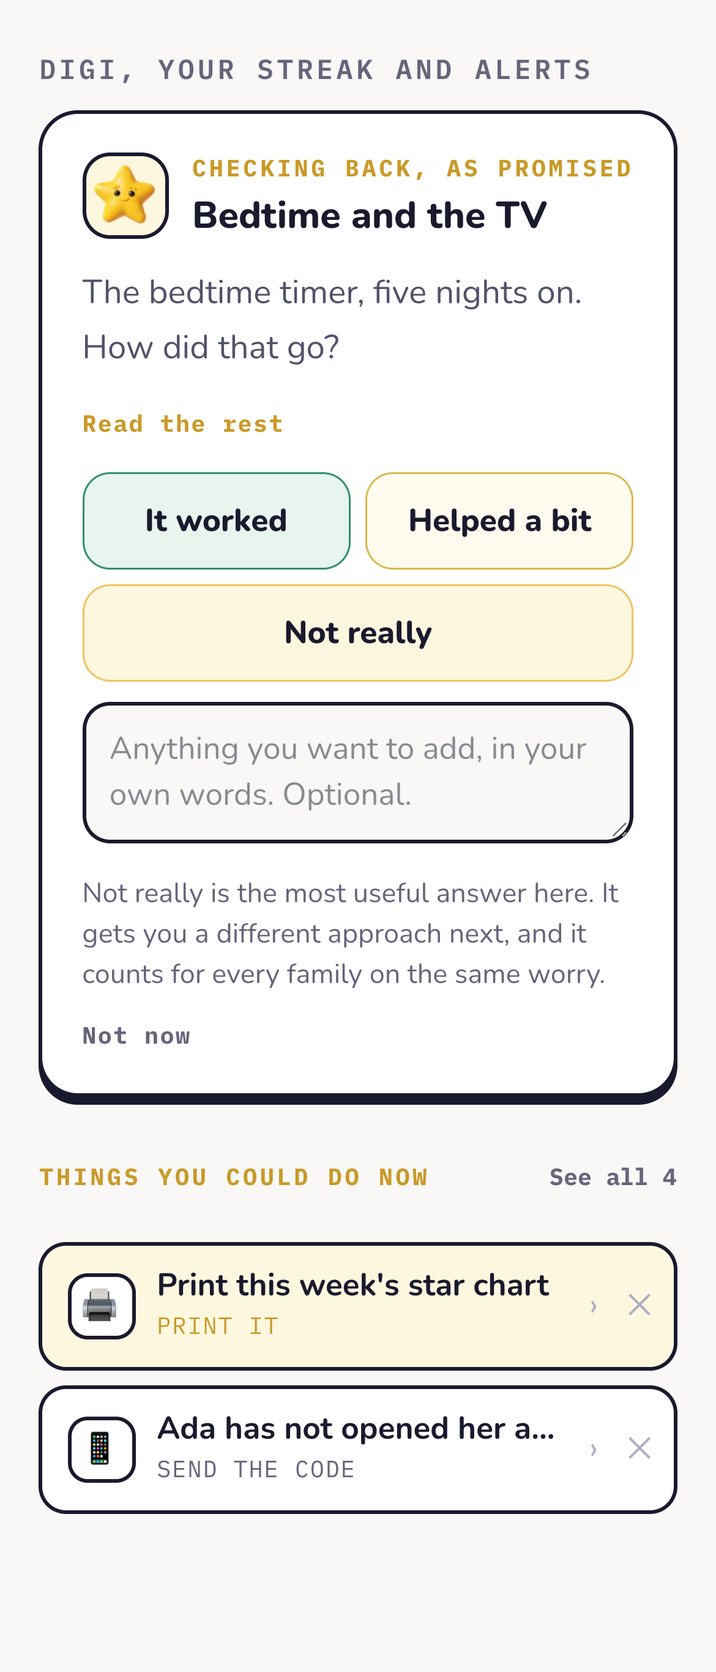
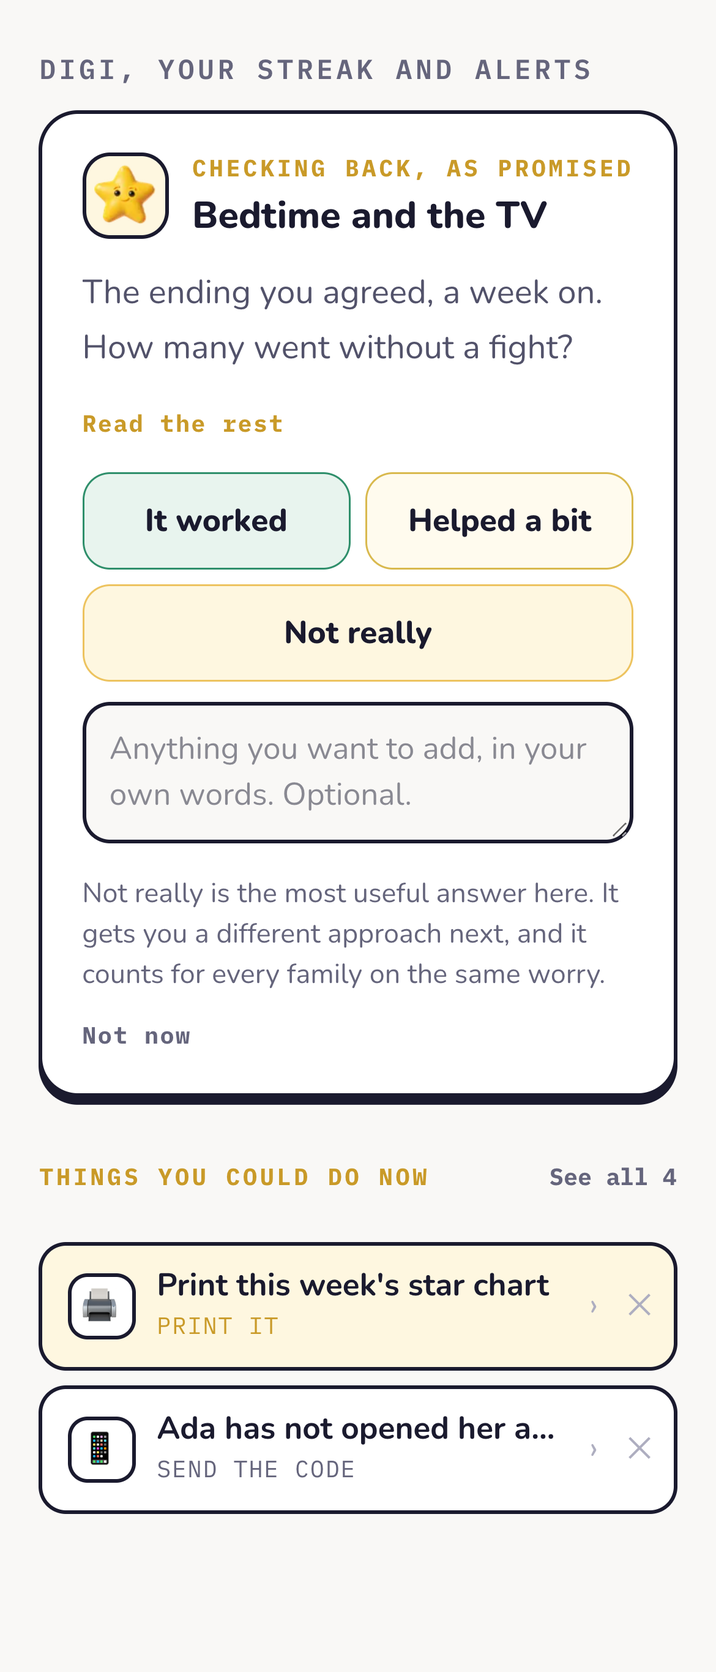
Ready: she starts at nine, DiGi's plan is its live script 9671, no backing track
Episode one and the hero open on the nine year old (new reference, Higgsfield
job 06f19bf3). DiGi's bedtime plan follows script 9671 as corrected by
migration 371: agree the ending in a calm moment, say only that was the
deal, no warnings. The hero's group chat answer follows WB-03. The guide
score is out; Justin adds the music. Ages are labelled only where the
footage reads that age.

Changed region(s): [[0.2462, 0.1557, 0.8308, 0.2179], [0.2154, 0.1557, 0.2462, 0.1868]]

diff --git a/videos/2026-10-12-ready-ep1-bedtime/index.html b/videos/2026-10-12-ready-ep1-bedtime/index.html
@@ -46,18 +46,18 @@ html,body{width:1920px;height:1080px;overflow:hidden;background:#000}
 .end .cta{margin-top:50px;font-weight:700;font-size:44px;line-height:1.3;color:#1A1A2E;opacity:0}
 .end .url{margin-top:26px;font-family:plexMono,monospace;font-weight:600;font-size:26px;letter-spacing:0.08em;color:#C99A28;opacity:0}
 </style></head>
-<body><div id="root" data-composition-id="main" data-start="0" data-duration="88.80" data-width="1920" data-height="1080">
+<body><div id="root" data-composition-id="main" data-start="0" data-duration="90.70" data-width="1920" data-height="1080">
 <div id="b0" class="beat hook"><video id="v0" class="" src="assets/e1-tv.mp4" muted playsinline data-start="0.00" data-duration="7.00" data-media-start="0.00" data-track-index="1" style="transform-origin:50% 45%"></video><div class="scrim deep"></div><div class="strip" id="b0-s"><div class="steps"><span class="st on"><i>1</i>The worry</span><span class="st"><i>2</i>DiGi's plan</span><span class="st"><i>3</i>How it works</span><span class="st"><i>4</i>Sorted</span></div><div class="stamp">Night 1, 9:00pm</div></div><div class="quote" id="b0-q"><div class="qm">“</div><div class="qt">Every night the TV goes back on. Every night we fight.</div></div></div>
 <div id="b1" class="beat shot"><video id="v1" class="" src="assets/e1-tv.mp4" muted playsinline data-start="6.40" data-duration="6.10" data-media-start="3.00" data-track-index="0" style="transform-origin:50% 45%"></video><div class="scrim"></div><div class="strip" id="b1-s"><div class="steps"><span class="st on"><i>1</i>The worry</span><span class="st"><i>2</i>DiGi's plan</span><span class="st"><i>3</i>How it works</span><span class="st"><i>4</i>Sorted</span></div><div class="stamp">Night 1, 9:00pm</div></div><div class="caption" id="b1-c">Bedtime. The TV goes back on. Again.</div></div>
 <div id="b2" class="beat chat"><div class="ground"></div><div class="strip" id="b2-s"><div class="steps"><span class="st done"><i>✓</i>The worry</span><span class="st on"><i>2</i>DiGi's plan</span><span class="st"><i>3</i>How it works</span><span class="st"><i>4</i>Sorted</span></div><div class="stamp">Night 1, 9:14pm</div></div><div class="chatbox" id="b2-p"><div class="ph-head"><img src="assets/digi-cut.png" alt=""><span>DiGi</span></div><div class="me" id="b2-me">She keeps putting the TV back on at bedtime. Every night ends in a fight. What do I do?</div><div class="dots" id="b2-dots"><i></i><i></i><i></i></div></div></div>
-<div id="b3" class="beat chat"><div class="ground"></div><div class="strip" id="b3-s"><div class="steps"><span class="st done"><i>✓</i>The worry</span><span class="st on"><i>2</i>DiGi's plan</span><span class="st"><i>3</i>How it works</span><span class="st"><i>4</i>Sorted</span></div><div class="stamp">Night 1, 9:15pm</div></div><div class="chatbox" id="b3-p"><div class="ph-head"><img src="assets/digi-cut.png" alt=""><span>DiGi</span></div><div class="dg step" id="b3-d0"><b class="num">1</b><span><b>Tonight.</b> Tell her once. Ten minutes on the timer, then the TV goes off.</span></div><div class="dg step" id="b3-d1"><b class="num">2</b><span><b>Then.</b> A calm switch off earns ten minutes together, and she chooses what.</span></div><div class="dg step" id="b3-d2"><b class="num">3</b><span><b>Every night.</b> The same ending, no extra minutes. One extension resets it.</span></div></div></div>
-<div id="b4" class="beat shot"><video id="v2" class="" src="assets/e1-timer.mp4" muted playsinline data-start="41.90" data-duration="6.10" data-media-start="0.00" data-track-index="1" style="transform-origin:50% 45%"></video><div class="scrim"></div><div class="strip" id="b4-s"><div class="steps"><span class="st done"><i>✓</i>The worry</span><span class="st done"><i>✓</i>DiGi's plan</span><span class="st on"><i>3</i>How it works</span><span class="st"><i>4</i>Sorted</span></div><div class="stamp">Night 2, 8:50pm</div></div><div class="caption" id="b4-c">Ten minutes on the timer. Said once.</div></div>
-<div id="b5" class="beat shot"><video id="v3" class="" src="assets/e1-together.mp4" muted playsinline data-start="47.40" data-duration="6.10" data-media-start="0.00" data-track-index="0" style="transform-origin:50% 45%"></video><div class="scrim"></div><div class="strip" id="b5-s"><div class="steps"><span class="st done"><i>✓</i>The worry</span><span class="st done"><i>✓</i>DiGi's plan</span><span class="st on"><i>3</i>How it works</span><span class="st"><i>4</i>Sorted</span></div><div class="stamp">Night 2, 9:00pm</div></div><div class="caption" id="b5-c">TV off. Ten minutes together, her choice.</div></div>
+<div id="b3" class="beat chat"><div class="ground"></div><div class="strip" id="b3-s"><div class="steps"><span class="st done"><i>✓</i>The worry</span><span class="st on"><i>2</i>DiGi's plan</span><span class="st"><i>3</i>How it works</span><span class="st"><i>4</i>Sorted</span></div><div class="stamp">Night 1, 9:15pm</div></div><div class="chatbox" id="b3-p"><div class="ph-head"><img src="assets/digi-cut.png" alt=""><span>DiGi</span></div><div class="dg step" id="b3-d0"><b class="num">1</b><span><b>Tonight.</b> Not at the screen. In a calm moment, agree what ends it: episode or timer.</span></div><div class="dg step" id="b3-d1"><b class="num">2</b><span><b>Tomorrow.</b> When it ends, say only “That was the deal. Well done.” Nothing else.</span></div><div class="dg step" id="b3-d2"><b class="num">3</b><span><b>If she pushes.</b> No countdown, no lecture. Point to the deal she chose.</span></div></div></div>
+<div id="b4" class="beat shot"><video id="v2" class="" src="assets/e1-deal.mp4" muted playsinline data-start="43.40" data-duration="6.50" data-media-start="0.00" data-track-index="1" style="transform-origin:50% 45%"></video><div class="scrim"></div><div class="strip" id="b4-s"><div class="steps"><span class="st done"><i>✓</i>The worry</span><span class="st done"><i>✓</i>DiGi's plan</span><span class="st on"><i>3</i>How it works</span><span class="st"><i>4</i>Sorted</span></div><div class="stamp">Day 2, 4:00pm</div></div><div class="caption" id="b4-c">Not at the screen. She picks the ending.</div></div>
+<div id="b5" class="beat shot"><video id="v3" class="" src="assets/e1-ending.mp4" muted playsinline data-start="49.30" data-duration="6.10" data-media-start="0.00" data-track-index="0" style="transform-origin:50% 45%"></video><div class="scrim"></div><div class="strip" id="b5-s"><div class="steps"><span class="st done"><i>✓</i>The worry</span><span class="st done"><i>✓</i>DiGi's plan</span><span class="st on"><i>3</i>How it works</span><span class="st"><i>4</i>Sorted</span></div><div class="stamp">Night 2, 8:30pm</div></div><div class="caption" id="b5-c">The timer goes. That was the deal.</div></div>
 <div id="b6" class="beat screen"><div class="ground"></div><div class="strip" id="b6-s"><div class="steps"><span class="st done"><i>✓</i>The worry</span><span class="st done"><i>✓</i>DiGi's plan</span><span class="st on"><i>3</i>How it works</span><span class="st"><i>4</i>Sorted</span></div><div class="stamp">Day 3, 5:00pm</div></div><div class="phone" id="b6-p" style="width:560px;margin-left:-280px"><div class="crop" style="aspect-ratio:1170/1485"><img src="assets/child-deal.png" style="top:0.000%" alt=""></div></div><div class="caption" id="b6-c">Her deal, in her own app.</div></div>
 <div id="b7" class="beat screen"><div class="ground"></div><div class="strip" id="b7-s"><div class="steps"><span class="st done"><i>✓</i>The worry</span><span class="st done"><i>✓</i>DiGi's plan</span><span class="st on"><i>3</i>How it works</span><span class="st"><i>4</i>Sorted</span></div><div class="stamp">Day 3, 6:00pm</div></div><div class="phone" id="b7-p" style="width:560px;margin-left:-280px"><div class="crop" style="aspect-ratio:1170/1300"><img src="assets/kid-ask.png" style="top:0.000%" alt=""></div></div><div class="caption" id="b7-c">She picks the screen. Her timer ends it.</div></div>
-<div id="b8" class="beat screen"><div class="ground"></div><div class="strip" id="b8-s"><div class="steps"><span class="st done"><i>✓</i>The worry</span><span class="st done"><i>✓</i>DiGi's plan</span><span class="st on"><i>3</i>How it works</span><span class="st"><i>4</i>Sorted</span></div><div class="stamp">Night 5</div></div><div class="phone" id="b8-p" style="width:521px;margin-left:-260.5px"><div class="crop" style="aspect-ratio:1170/1600"><img src="assets/digi-followup.png" style="top:-10.625%" alt=""></div></div><div class="caption" id="b8-c">Five nights on, DiGi checks back.</div></div>
-<div id="b9" class="beat shot"><video id="v4" class="" src="assets/e1-off.mp4" muted playsinline data-start="72.00" data-duration="6.50" data-media-start="0.00" data-track-index="1" style="transform-origin:50% 45%"></video><div class="scrim"></div><div class="strip" id="b9-s"><div class="steps"><span class="st done"><i>✓</i>The worry</span><span class="st done"><i>✓</i>DiGi's plan</span><span class="st done"><i>✓</i>How it works</span><span class="st on"><i>4</i>Sorted</span></div><div class="stamp">Week 2, 9:00pm</div></div><div class="caption" id="b9-c">The timer goes. She switches it off herself.</div></div>
-<div id="b10" class="beat shot"><video id="v5" class="" src="assets/s13.mp4" muted playsinline data-start="77.90" data-duration="6.50" data-media-start="1.00" data-track-index="0" style="transform-origin:50% 50%"></video><div class="scrim"></div><div class="strip" id="b10-s"><div class="steps"><span class="st done"><i>✓</i>The worry</span><span class="st done"><i>✓</i>DiGi's plan</span><span class="st done"><i>✓</i>How it works</span><span class="st on"><i>4</i>Sorted</span></div><div class="stamp">Seven years on</div></div><div class="caption" id="b10-c">Her phone sleeps in the kitchen. Her choice.</div></div>
+<div id="b8" class="beat screen"><div class="ground"></div><div class="strip" id="b8-s"><div class="steps"><span class="st done"><i>✓</i>The worry</span><span class="st done"><i>✓</i>DiGi's plan</span><span class="st on"><i>3</i>How it works</span><span class="st"><i>4</i>Sorted</span></div><div class="stamp">Week 1</div></div><div class="phone" id="b8-p" style="width:521px;margin-left:-260.5px"><div class="crop" style="aspect-ratio:1170/1600"><img src="assets/digi-followup.png" style="top:-10.625%" alt=""></div></div><div class="caption" id="b8-c">A week on, DiGi checks back.</div></div>
+<div id="b9" class="beat shot"><video id="v4" class="" src="assets/e1-off.mp4" muted playsinline data-start="73.90" data-duration="6.50" data-media-start="0.00" data-track-index="1" style="transform-origin:50% 45%"></video><div class="scrim"></div><div class="strip" id="b9-s"><div class="steps"><span class="st done"><i>✓</i>The worry</span><span class="st done"><i>✓</i>DiGi's plan</span><span class="st done"><i>✓</i>How it works</span><span class="st on"><i>4</i>Sorted</span></div><div class="stamp">Week 2, 9:00pm</div></div><div class="caption" id="b9-c">The timer goes. She switches it off herself.</div></div>
+<div id="b10" class="beat shot"><video id="v5" class="" src="assets/s13.mp4" muted playsinline data-start="79.80" data-duration="6.50" data-media-start="1.00" data-track-index="0" style="transform-origin:50% 50%"></video><div class="scrim"></div><div class="strip" id="b10-s"><div class="steps"><span class="st done"><i>✓</i>The worry</span><span class="st done"><i>✓</i>DiGi's plan</span><span class="st done"><i>✓</i>How it works</span><span class="st on"><i>4</i>Sorted</span></div><div class="stamp">Seven years on</div></div><div class="caption" id="b10-c">Her phone sleeps in the kitchen. Her choice.</div></div>
 <div id="b11" class="beat end"><div class="lockup" id="b11-l"><svg width="132" height="132" viewBox="0 0 132 132"><rect width="132" height="132" rx="31.68" fill="#EDC35F"/><rect x="22.4" y="79.9" width="15.8" height="23.1" rx="7.9" fill="#FFFFFF"/><rect x="46.2" y="61.4" width="15.8" height="41.6" rx="7.9" fill="#FFFFFF"/><rect x="70.0" y="38.3" width="15.8" height="64.7" rx="7.9" fill="#FFFFFF"/><rect x="93.7" y="66.0" width="15.8" height="37.0" rx="7.9" fill="#FFFFFF"/></svg><span class="word">Guided Childhood</span></div>
       <div class="cta" id="b11-c">What stage is your child?<br>Three questions, no sign up.</div><div class="url" id="b11-u">guidedchildhood.com/starter-pack</div></div>
 <div class="vignette" id="vig"></div></div>
@@ -85,56 +85,56 @@ tl.fromTo("#b2-dots",{opacity:0},{opacity:1,duration:0.2},20.51);
 tl.fromTo("#b2-dots i",{y:0},{y:-6,duration:0.25,yoyo:true,repeat:5,stagger:0.12,ease:"sine.inOut"},20.51);
 tl.to("#b2-dots",{opacity:0,height:0,margin:0,padding:0,duration:0.2},21.91);
 tl.fromTo("#b3",{opacity:0},{opacity:1,duration:0.6,ease:"sine.inOut"},23.40);
-tl.to("#b3",{opacity:0,duration:0.01},42.50);
+tl.to("#b3",{opacity:0,duration:0.01},44.00);
 tl.fromTo("#b3-s .stamp",{opacity:0,x:-12},{opacity:1,x:0,duration:0.6,ease:"expo.out"},23.60);
 tl.fromTo("#b3-p",{opacity:0,y:30,scale:0.97},{opacity:1,y:0,scale:1,duration:0.7,ease:"expo.out"},23.80);
 tl.fromTo("#b3-d0",{opacity:0,y:12},{opacity:1,y:0,duration:0.55,ease:"power2.out"},24.60);
-tl.fromTo("#b3-d1",{opacity:0,y:12},{opacity:1,y:0,duration:0.55,ease:"power2.out"},30.48);
-tl.fromTo("#b3-d2",{opacity:0,y:12},{opacity:1,y:0,duration:0.55,ease:"power2.out"},35.98);
-tl.fromTo("#b4",{opacity:0},{opacity:1,duration:0.6,ease:"sine.inOut"},41.90);
-tl.to("#b4",{opacity:0,duration:0.01},48.00);
-tl.fromTo("#b4 video",{scale:1},{scale:1.06,duration:6.10,ease:"none"},41.90);
-tl.fromTo("#b4-s .stamp",{opacity:0,x:-12},{opacity:1,x:0,duration:0.6,ease:"expo.out"},42.10);
-tl.fromTo("#b4-s .st.on",{scale:0.85},{scale:1,duration:0.5,ease:"back.out(2)"},42.20);
-tl.fromTo("#b4-c",{opacity:0,y:14,filter:"blur(8px)"},{opacity:1,y:0,filter:"blur(0px)",duration:0.8,ease:"expo.out"},42.90);
-tl.fromTo("#b5",{opacity:0},{opacity:1,duration:0.6,ease:"sine.inOut"},47.40);
-tl.to("#b5",{opacity:0,duration:0.01},53.50);
-tl.fromTo("#b5 video",{scale:1},{scale:1.06,duration:6.10,ease:"none"},47.40);
-tl.fromTo("#b5-s .stamp",{opacity:0,x:-12},{opacity:1,x:0,duration:0.6,ease:"expo.out"},47.60);
-tl.fromTo("#b5-c",{opacity:0,y:14,filter:"blur(8px)"},{opacity:1,y:0,filter:"blur(0px)",duration:0.8,ease:"expo.out"},48.40);
-tl.fromTo("#b6",{opacity:0},{opacity:1,duration:0.6,ease:"sine.inOut"},52.90);
-tl.to("#b6",{opacity:0,duration:0.01},59.60);
-tl.fromTo("#b6-s .stamp",{opacity:0,x:-12},{opacity:1,x:0,duration:0.6,ease:"expo.out"},53.10);
-tl.fromTo("#b6-p",{opacity:0,y:50,scale:0.95},{opacity:1,y:0,scale:1,duration:0.9,ease:"expo.out"},53.20);
-tl.to("#b6-p",{y:-8,duration:5.30,ease:"sine.inOut"},54.10);
-tl.fromTo("#b6-c",{opacity:0,y:14,filter:"blur(8px)"},{opacity:1,y:0,filter:"blur(0px)",duration:0.8,ease:"expo.out"},54.30);
-tl.fromTo("#b7",{opacity:0},{opacity:1,duration:0.6,ease:"sine.inOut"},59.00);
-tl.to("#b7",{opacity:0,duration:0.01},66.50);
-tl.fromTo("#b7-s .stamp",{opacity:0,x:-12},{opacity:1,x:0,duration:0.6,ease:"expo.out"},59.20);
-tl.fromTo("#b7-p",{opacity:0,y:50,scale:0.95},{opacity:1,y:0,scale:1,duration:0.9,ease:"expo.out"},59.30);
-tl.to("#b7-p",{y:-8,duration:6.10,ease:"sine.inOut"},60.20);
-tl.fromTo("#b7-c",{opacity:0,y:14,filter:"blur(8px)"},{opacity:1,y:0,filter:"blur(0px)",duration:0.8,ease:"expo.out"},60.40);
-tl.fromTo("#b8",{opacity:0},{opacity:1,duration:0.6,ease:"sine.inOut"},65.90);
-tl.to("#b8",{opacity:0,duration:0.01},72.60);
-tl.fromTo("#b8-s .stamp",{opacity:0,x:-12},{opacity:1,x:0,duration:0.6,ease:"expo.out"},66.10);
-tl.fromTo("#b8-p",{opacity:0,y:50,scale:0.95},{opacity:1,y:0,scale:1,duration:0.9,ease:"expo.out"},66.20);
-tl.to("#b8-p",{y:-8,duration:5.30,ease:"sine.inOut"},67.10);
-tl.fromTo("#b8-c",{opacity:0,y:14,filter:"blur(8px)"},{opacity:1,y:0,filter:"blur(0px)",duration:0.8,ease:"expo.out"},67.30);
-tl.fromTo("#b9",{opacity:0},{opacity:1,duration:0.6,ease:"sine.inOut"},72.00);
-tl.to("#b9",{opacity:0,duration:0.01},78.50);
-tl.fromTo("#b9 video",{scale:1},{scale:1.06,duration:6.50,ease:"none"},72.00);
-tl.fromTo("#b9-s .stamp",{opacity:0,x:-12},{opacity:1,x:0,duration:0.6,ease:"expo.out"},72.20);
-tl.fromTo("#b9-s .st.on",{scale:0.85},{scale:1,duration:0.5,ease:"back.out(2)"},72.30);
-tl.fromTo("#b9-c",{opacity:0,y:14,filter:"blur(8px)"},{opacity:1,y:0,filter:"blur(0px)",duration:0.8,ease:"expo.out"},73.00);
-tl.fromTo("#b10",{opacity:0},{opacity:1,duration:0.6,ease:"sine.inOut"},77.90);
-tl.to("#b10",{opacity:0,duration:0.01},84.40);
-tl.fromTo("#b10 video",{scale:1},{scale:1.06,duration:6.50,ease:"none"},77.90);
-tl.fromTo("#b10-s .stamp",{opacity:0,x:-12},{opacity:1,x:0,duration:0.6,ease:"expo.out"},78.10);
-tl.fromTo("#b10-c",{opacity:0,y:14,filter:"blur(8px)"},{opacity:1,y:0,filter:"blur(0px)",duration:0.8,ease:"expo.out"},78.90);
-tl.fromTo("#b11",{opacity:0},{opacity:1,duration:0.6,ease:"sine.inOut"},83.80);
-tl.fromTo("#b11-l",{opacity:0,y:18,scale:0.96},{opacity:1,y:0,scale:1,duration:1.0,ease:"expo.out"},84.10);
-tl.fromTo("#b11-c",{opacity:0,y:12},{opacity:1,y:0,duration:0.9,ease:"expo.out"},84.80);
-tl.fromTo("#b11-u",{opacity:0},{opacity:1,duration:0.8},85.40);
-tl.to("#vig",{opacity:0,duration:0.6},83.80);
-tl.to({}, {duration:88.8}, 0);
+tl.fromTo("#b3-d1",{opacity:0,y:12},{opacity:1,y:0,duration:0.55,ease:"power2.out"},31.25);
+tl.fromTo("#b3-d2",{opacity:0,y:12},{opacity:1,y:0,duration:0.55,ease:"power2.out"},37.14);
+tl.fromTo("#b4",{opacity:0},{opacity:1,duration:0.6,ease:"sine.inOut"},43.40);
+tl.to("#b4",{opacity:0,duration:0.01},49.90);
+tl.fromTo("#b4 video",{scale:1},{scale:1.06,duration:6.50,ease:"none"},43.40);
+tl.fromTo("#b4-s .stamp",{opacity:0,x:-12},{opacity:1,x:0,duration:0.6,ease:"expo.out"},43.60);
+tl.fromTo("#b4-s .st.on",{scale:0.85},{scale:1,duration:0.5,ease:"back.out(2)"},43.70);
+tl.fromTo("#b4-c",{opacity:0,y:14,filter:"blur(8px)"},{opacity:1,y:0,filter:"blur(0px)",duration:0.8,ease:"expo.out"},44.40);
+tl.fromTo("#b5",{opacity:0},{opacity:1,duration:0.6,ease:"sine.inOut"},49.30);
+tl.to("#b5",{opacity:0,duration:0.01},55.40);
+tl.fromTo("#b5 video",{scale:1},{scale:1.06,duration:6.10,ease:"none"},49.30);
+tl.fromTo("#b5-s .stamp",{opacity:0,x:-12},{opacity:1,x:0,duration:0.6,ease:"expo.out"},49.50);
+tl.fromTo("#b5-c",{opacity:0,y:14,filter:"blur(8px)"},{opacity:1,y:0,filter:"blur(0px)",duration:0.8,ease:"expo.out"},50.30);
+tl.fromTo("#b6",{opacity:0},{opacity:1,duration:0.6,ease:"sine.inOut"},54.80);
+tl.to("#b6",{opacity:0,duration:0.01},61.50);
+tl.fromTo("#b6-s .stamp",{opacity:0,x:-12},{opacity:1,x:0,duration:0.6,ease:"expo.out"},55.00);
+tl.fromTo("#b6-p",{opacity:0,y:50,scale:0.95},{opacity:1,y:0,scale:1,duration:0.9,ease:"expo.out"},55.10);
+tl.to("#b6-p",{y:-8,duration:5.30,ease:"sine.inOut"},56.00);
+tl.fromTo("#b6-c",{opacity:0,y:14,filter:"blur(8px)"},{opacity:1,y:0,filter:"blur(0px)",duration:0.8,ease:"expo.out"},56.20);
+tl.fromTo("#b7",{opacity:0},{opacity:1,duration:0.6,ease:"sine.inOut"},60.90);
+tl.to("#b7",{opacity:0,duration:0.01},68.40);
+tl.fromTo("#b7-s .stamp",{opacity:0,x:-12},{opacity:1,x:0,duration:0.6,ease:"expo.out"},61.10);
+tl.fromTo("#b7-p",{opacity:0,y:50,scale:0.95},{opacity:1,y:0,scale:1,duration:0.9,ease:"expo.out"},61.20);
+tl.to("#b7-p",{y:-8,duration:6.10,ease:"sine.inOut"},62.10);
+tl.fromTo("#b7-c",{opacity:0,y:14,filter:"blur(8px)"},{opacity:1,y:0,filter:"blur(0px)",duration:0.8,ease:"expo.out"},62.30);
+tl.fromTo("#b8",{opacity:0},{opacity:1,duration:0.6,ease:"sine.inOut"},67.80);
+tl.to("#b8",{opacity:0,duration:0.01},74.50);
+tl.fromTo("#b8-s .stamp",{opacity:0,x:-12},{opacity:1,x:0,duration:0.6,ease:"expo.out"},68.00);
+tl.fromTo("#b8-p",{opacity:0,y:50,scale:0.95},{opacity:1,y:0,scale:1,duration:0.9,ease:"expo.out"},68.10);
+tl.to("#b8-p",{y:-8,duration:5.30,ease:"sine.inOut"},69.00);
+tl.fromTo("#b8-c",{opacity:0,y:14,filter:"blur(8px)"},{opacity:1,y:0,filter:"blur(0px)",duration:0.8,ease:"expo.out"},69.20);
+tl.fromTo("#b9",{opacity:0},{opacity:1,duration:0.6,ease:"sine.inOut"},73.90);
+tl.to("#b9",{opacity:0,duration:0.01},80.40);
+tl.fromTo("#b9 video",{scale:1},{scale:1.06,duration:6.50,ease:"none"},73.90);
+tl.fromTo("#b9-s .stamp",{opacity:0,x:-12},{opacity:1,x:0,duration:0.6,ease:"expo.out"},74.10);
+tl.fromTo("#b9-s .st.on",{scale:0.85},{scale:1,duration:0.5,ease:"back.out(2)"},74.20);
+tl.fromTo("#b9-c",{opacity:0,y:14,filter:"blur(8px)"},{opacity:1,y:0,filter:"blur(0px)",duration:0.8,ease:"expo.out"},74.90);
+tl.fromTo("#b10",{opacity:0},{opacity:1,duration:0.6,ease:"sine.inOut"},79.80);
+tl.to("#b10",{opacity:0,duration:0.01},86.30);
+tl.fromTo("#b10 video",{scale:1},{scale:1.06,duration:6.50,ease:"none"},79.80);
+tl.fromTo("#b10-s .stamp",{opacity:0,x:-12},{opacity:1,x:0,duration:0.6,ease:"expo.out"},80.00);
+tl.fromTo("#b10-c",{opacity:0,y:14,filter:"blur(8px)"},{opacity:1,y:0,filter:"blur(0px)",duration:0.8,ease:"expo.out"},80.80);
+tl.fromTo("#b11",{opacity:0},{opacity:1,duration:0.6,ease:"sine.inOut"},85.70);
+tl.fromTo("#b11-l",{opacity:0,y:18,scale:0.96},{opacity:1,y:0,scale:1,duration:1.0,ease:"expo.out"},86.00);
+tl.fromTo("#b11-c",{opacity:0,y:12},{opacity:1,y:0,duration:0.9,ease:"expo.out"},86.70);
+tl.fromTo("#b11-u",{opacity:0},{opacity:1,duration:0.8},87.30);
+tl.to("#vig",{opacity:0,duration:0.6},85.70);
+tl.to({}, {duration:90.7}, 0);
 </script></body></html>

diff --git a/videos/2026-10-12-ready/index.html b/videos/2026-10-12-ready/index.html
@@ -36,22 +36,22 @@ html,body{width:1920px;height:1080px;overflow:hidden;background:#000}
 .url{margin-top:26px;font-family:plexMono,monospace;font-weight:600;font-size:26px;letter-spacing:0.08em;color:#C99A28;opacity:0}
 </style></head>
 <body><div id="root" data-composition-id="main" data-start="0" data-duration="99.80" data-width="1920" data-height="1080">
-<div id="w0" class="shot"><video id="v0" src="assets/s01.mp4" muted playsinline data-start="0.00" data-duration="7.40" data-media-start="0.30" data-track-index="0" style="transform-origin:55% 45%"></video></div>
-<div class="cap" id="c0"><div class="age">Age 6</div><div class="cl">Bedtime. The TV goes back on.</div></div><div id="w1" class="shot"><video id="v1" src="assets/s02-slow.mp4" muted playsinline data-start="6.80" data-duration="11.40" data-media-start="0.20" data-track-index="1" style="transform-origin:45% 40%"></video></div>
+<div id="w0" class="shot"><video id="v0" src="assets/e1-tv.mp4" muted playsinline data-start="0.00" data-duration="7.40" data-media-start="0.30" data-track-index="0" style="transform-origin:55% 45%"></video></div>
+<div class="cap" id="c0"><div class="age">Age 9</div><div class="cl">Bedtime. The TV goes back on.</div></div><div id="w1" class="shot"><video id="v1" src="assets/s02-slow.mp4" muted playsinline data-start="6.80" data-duration="11.40" data-media-start="0.20" data-track-index="1" style="transform-origin:45% 40%"></video></div>
 <div class="phone" id="p1"><div class="ph-head"><img src="assets/digi-cut.png" alt=""><span>DiGi</span></div>
       <div class="me" id="p1-me">She has put the TV back on again. Third night running. What do I do?</div>
       <div class="dots" id="p1-dots"><i></i><i></i><i></i></div>
-      <div class="dg" id="p1-d0">Tonight, sit with her for the last five minutes, then off together.</div><div class="dg" id="p1-d1">Tomorrow, start a star chart. Jobs earn stars, stars earn screen time, and bedtime stays protected.</div></div><div id="w2" class="shot"><video id="v2" src="assets/s03.mp4" muted playsinline data-start="17.60" data-duration="6.60" data-media-start="0.60" data-track-index="0" style="transform-origin:50% 40%"></video></div>
+      <div class="dg" id="p1-d0">Not at the screen. In a calm moment, agree what ends it: episode or timer.</div><div class="dg" id="p1-d1">Then a star chart. Jobs earn stars, stars earn screen time, and bedtime stays protected.</div></div><div id="w2" class="shot"><video id="v2" src="assets/s03.mp4" muted playsinline data-start="17.60" data-duration="6.60" data-media-start="0.60" data-track-index="0" style="transform-origin:50% 40%"></video></div>
 <div class="cap" id="c2"><div class="age">The star quest</div><div class="cl">Jobs around the house earn stars.</div></div><div id="w3" class="shot"><video id="v3" src="assets/s04.mp4" muted playsinline data-start="23.60" data-duration="7.00" data-media-start="0.60" data-track-index="1" style="transform-origin:50% 50%"></video></div>
 <div class="chips" id="k3"><div class="chip" id="k3-0"><span class="st">★</span>fed the dog<span class="plus">+1</span></div><div class="chip" id="k3-1"><span class="st">★</span>set the table<span class="plus">+1</span></div><div class="chip rate" id="k3-2"><span class="st">★</span>1 star = 5 minutes of screen time</div></div><div id="w4" class="shot"><video id="v4" src="assets/s05.mp4" muted playsinline data-start="30.00" data-duration="6.80" data-media-start="0.60" data-track-index="0" style="transform-origin:50% 45%"></video></div>
 <div class="cap" id="c4"><div class="age">Protected time</div><div class="cl">No star can buy bedtime.</div></div><div id="w5" class="shot"><video id="v5" src="assets/s06.mp4" muted playsinline data-start="36.20" data-duration="6.20" data-media-start="1.00" data-track-index="1" style="transform-origin:55% 40%"></video></div>
-<div class="cap" id="c5"><div class="age">Age 8</div><div class="cl">She pitches her own quests.</div></div><div id="w6" class="shot"><video id="v6" src="assets/s07.mp4" muted playsinline data-start="41.80" data-duration="6.20" data-media-start="1.00" data-track-index="0" style="transform-origin:50% 40%"></video></div>
-<div class="cap" id="c6"><div class="age">Age 9</div><div class="cl">Ten minutes a day, learning together.</div></div><div id="w7" class="shot"><video id="v7" src="assets/s08.mp4" muted playsinline data-start="47.40" data-duration="6.20" data-media-start="1.20" data-track-index="1" style="transform-origin:45% 45%"></video></div>
+<div class="cap" id="c5"><div class="age">Her idea</div><div class="cl">She pitches her own quests.</div></div><div id="w6" class="shot"><video id="v6" src="assets/s07.mp4" muted playsinline data-start="41.80" data-duration="6.20" data-media-start="1.00" data-track-index="0" style="transform-origin:50% 40%"></video></div>
+<div class="cap" id="c6"><div class="age">Together</div><div class="cl">Ten minutes a day, learning together.</div></div><div id="w7" class="shot"><video id="v7" src="assets/s08.mp4" muted playsinline data-start="47.40" data-duration="6.20" data-media-start="1.20" data-track-index="1" style="transform-origin:45% 45%"></video></div>
 <div class="cap" id="c7"><div class="age">Year after year</div><div class="cl">A star at a time, the habits stick.</div></div><div id="w8" class="shot"><video id="v8" src="assets/s09-slow.mp4" muted playsinline data-start="53.00" data-duration="11.00" data-media-start="0.30" data-track-index="0" style="transform-origin:50% 45%"></video></div>
 <div class="cap" id="c8"><div class="age">Age 12</div><div class="cl">She comes to you, not around you.</div></div><div class="phone" id="p8"><div class="ph-head"><img src="assets/digi-cut.png" alt=""><span>DiGi</span></div>
       <div class="me" id="p8-me">She showed me a horrible message from a group chat. What do I say?</div>
       <div class="dots" id="p8-dots"><i></i><i></i><i></i></div>
-      <div class="dg" id="p8-d0">Thank her for coming to you first. That is the win.</div><div class="dg" id="p8-d1">Then ask what she thinks it means, before you decide anything.</div></div><div id="w9" class="shot"><video id="v9" src="assets/s10.mp4" muted playsinline data-start="63.40" data-duration="8.40" data-media-start="0.00" data-track-index="1" style="transform-origin:45% 45%"></video></div>
+      <div class="dg" id="p8-d0">Tell her you are glad she came to you. She did nothing wrong.</div><div class="dg" id="p8-d1">Ask her to show you, in her own words, before you decide anything.</div></div><div id="w9" class="shot"><video id="v9" src="assets/s10.mp4" muted playsinline data-start="63.40" data-duration="8.40" data-media-start="0.00" data-track-index="1" style="transform-origin:45% 45%"></video></div>
 <div class="cap" id="c9"><div class="age">Age 15</div><div class="cl">The chart has gone. The habits stayed.</div></div><div class="cap" id="d9"><div class="age">Guidance, not a ban</div><div class="cl">A ban is a deadline. This is a plan.</div></div><div id="w10" class="shot"><video id="v10" src="assets/s11.mp4" muted playsinline data-start="71.20" data-duration="8.00" data-media-start="0.00" data-track-index="0" style="transform-origin:50% 50%"></video></div>
 <div class="cap" id="c10"><div class="age">Age 16</div><div class="cl">Her own phone. And she is ready.</div></div><div id="w11" class="shot"><video id="v11" src="assets/s12.mp4" muted playsinline data-start="78.60" data-duration="8.00" data-media-start="0.00" data-track-index="1" style="transform-origin:50% 50%"></video></div>
 <div id="w12" class="shot"><video id="v12" src="assets/s13.mp4" muted playsinline data-start="86.00" data-duration="7.80" data-media-start="0.20" data-track-index="0" style="transform-origin:50% 50%"></video></div>
@@ -63,7 +63,6 @@ html,body{width:1920px;height:1080px;overflow:hidden;background:#000}
   <div class="cta" id="cta">What stage is your child? Three questions, no sign up.</div>
   <div class="url" id="url">guidedchildhood.com/starter-pack</div>
 </div>
-<audio id="score" src="assets/guide-score.mp3" data-start="0" data-duration="99.80" data-track-index="4" data-volume="0.85"></audio>
 </div>
 <script>
 window.__timelines = window.__timelines || {};
